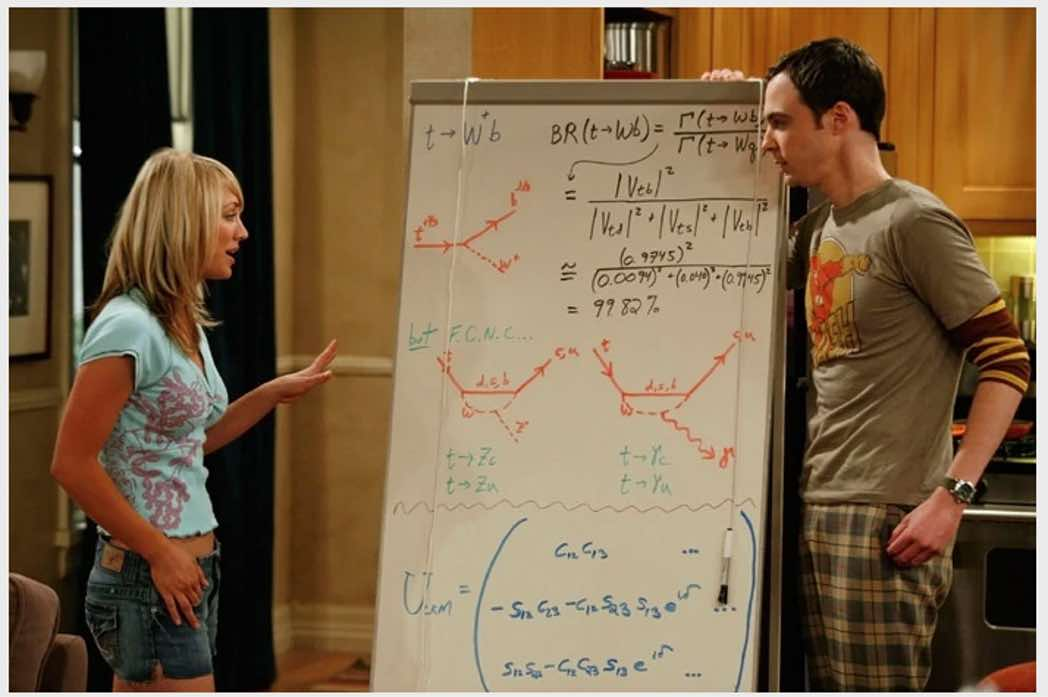
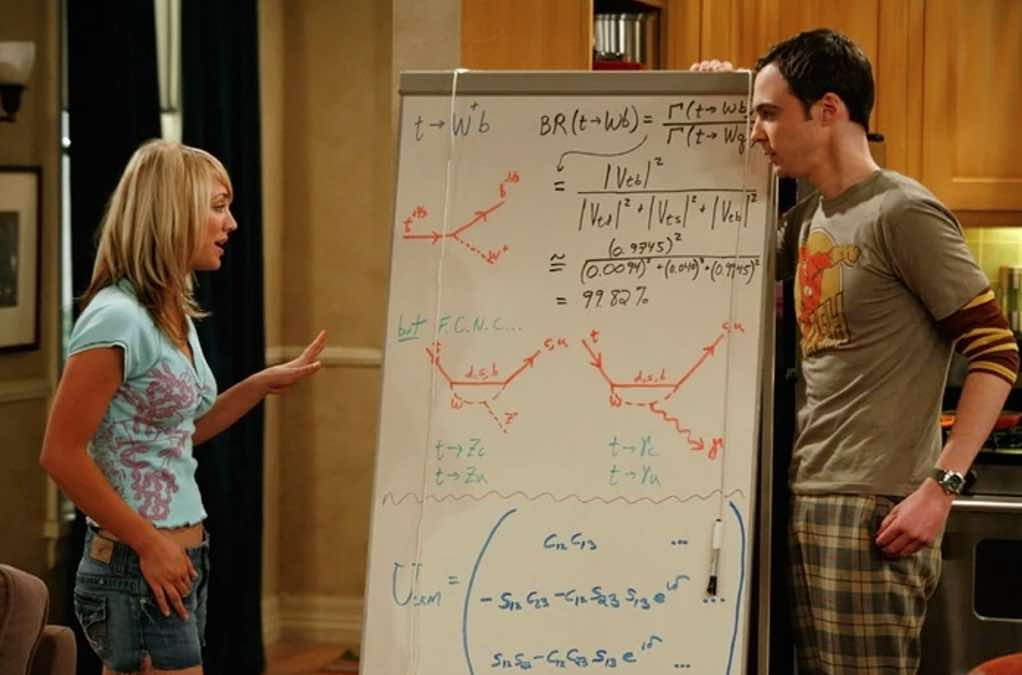
Fun with physics: Sheldon Cooper hero image

diff --git a/src/_content/posts/2021-01-17-fun-with-physics.md b/src/_content/posts/2021-01-17-fun-with-physics.md
@@ -1,16 +1,14 @@
 ---
 title: Fun with Physics
-subtitle: HeuristicLab solves your problems
+subtitle: "HeuristicLab solves your problems or: how to do physics without all the complicated stuff."
 author: John Peach
-lede: How to do physics without all the complicated stuff  
+hero:
+  url: /assets/img/fun-with-physics/sheldon.jpg
+  alt: Still from the series The Big Bang Theory.
+lede: Have you always wanted to be a real physicist like Sheldon Cooper, but didn't want to spend a lot of time studying? Here's how you can move to the head of the class without cracking open a single textbook.  
 tags: [math, physics]
 keywords: [physics, simulation, Algodoo, HeuristicLab, Octave]
 ---
-
-Have you always wanted to be a real physicist like Sheldon Cooper, but didn't want to spend a lot of time studying? Here's how you can move to the head of the class without cracking open a single textbook.
-
-![sheldon](/assets/img/fun-with-physics/sheldon.png)
-
 ## The Most Famous Equation
 
 Probably the best-known equation is Albert Einstein's relationship between energy and matter,
